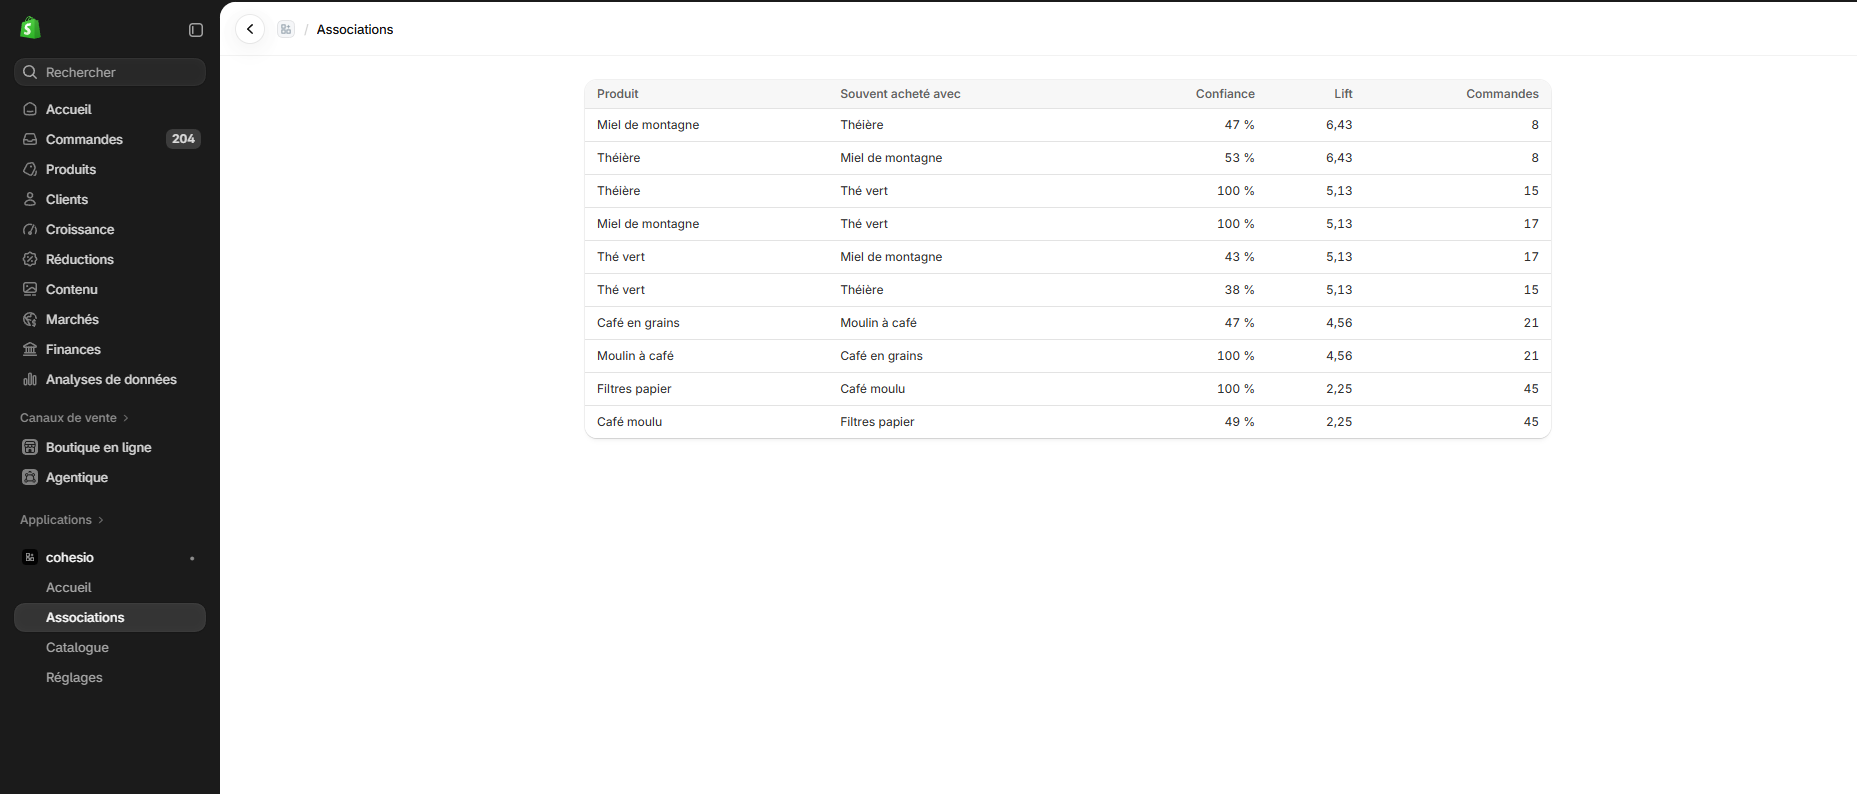
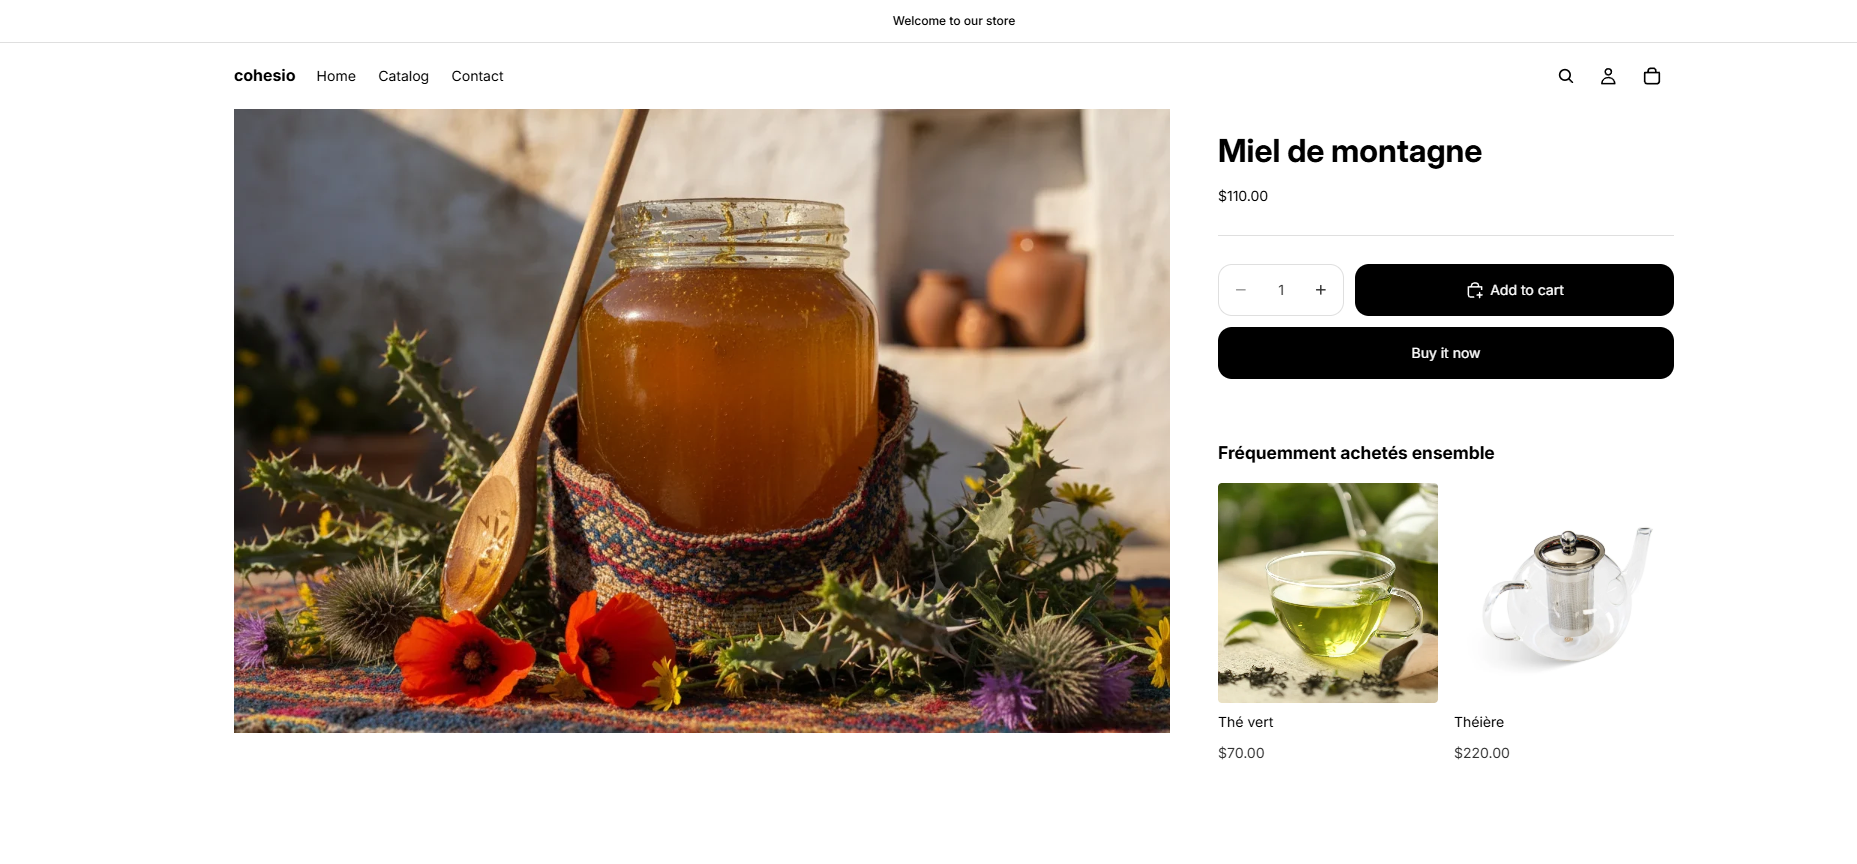
Nouvelle capture du bloc storefront avec images

diff --git a/README.md b/README.md
@@ -163,7 +163,7 @@ The app (TypeScript) has no automated tests; the HMAC checks described above wer
 - **Access token not yet encrypted at rest.** The Shopify access token is stored in the `Session` table as provided by the template's Prisma session storage. Application-level encryption is planned.
 - **In-memory recompute lock.** The engine tracks running and pending recomputes in process memory, which is only correct with a single engine instance.
 - **No bundle creation yet.** Pack suggestions are shown to the merchant, but the app does not create bundles in Shopify.
-- **Products without images.** The demo products have no images; the storefront block shows a placeholder with the product's initial.
+- **Demo product images.** Only some demo products have photos; products without an image show a placeholder with their initial in the storefront block.
 
 ## Run locally
 
